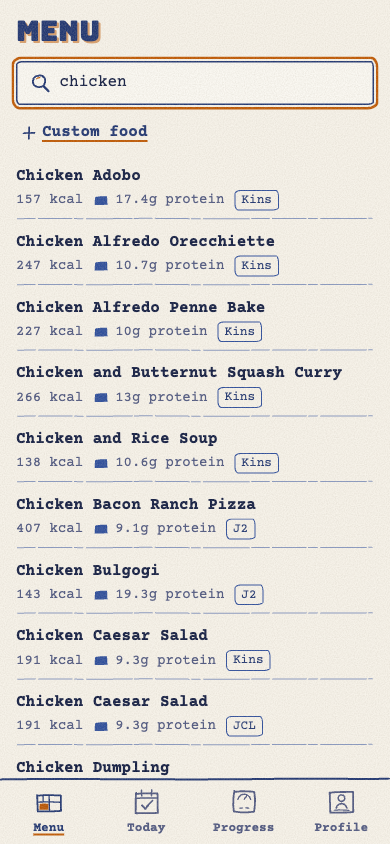
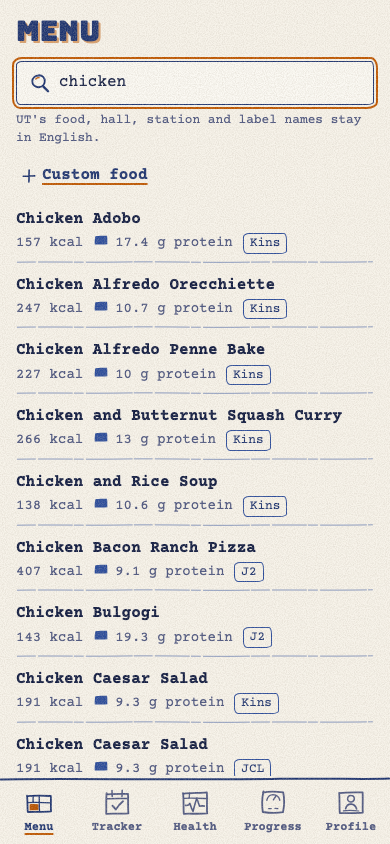
docs: screenshots for health, progress, language

diff --git a/README.md b/README.md
@@ -5,7 +5,7 @@ the calories and macros you have left today.
 
 **Live:** https://longhorn-macros.vercel.app (install it: Safari → Share → Add to Home Screen)
 
-![The Tracker screen](docs/screenshots/today.png)
+![The Tracker screen](docs/screenshots/tracker.png)
 
 ## What it does
 
